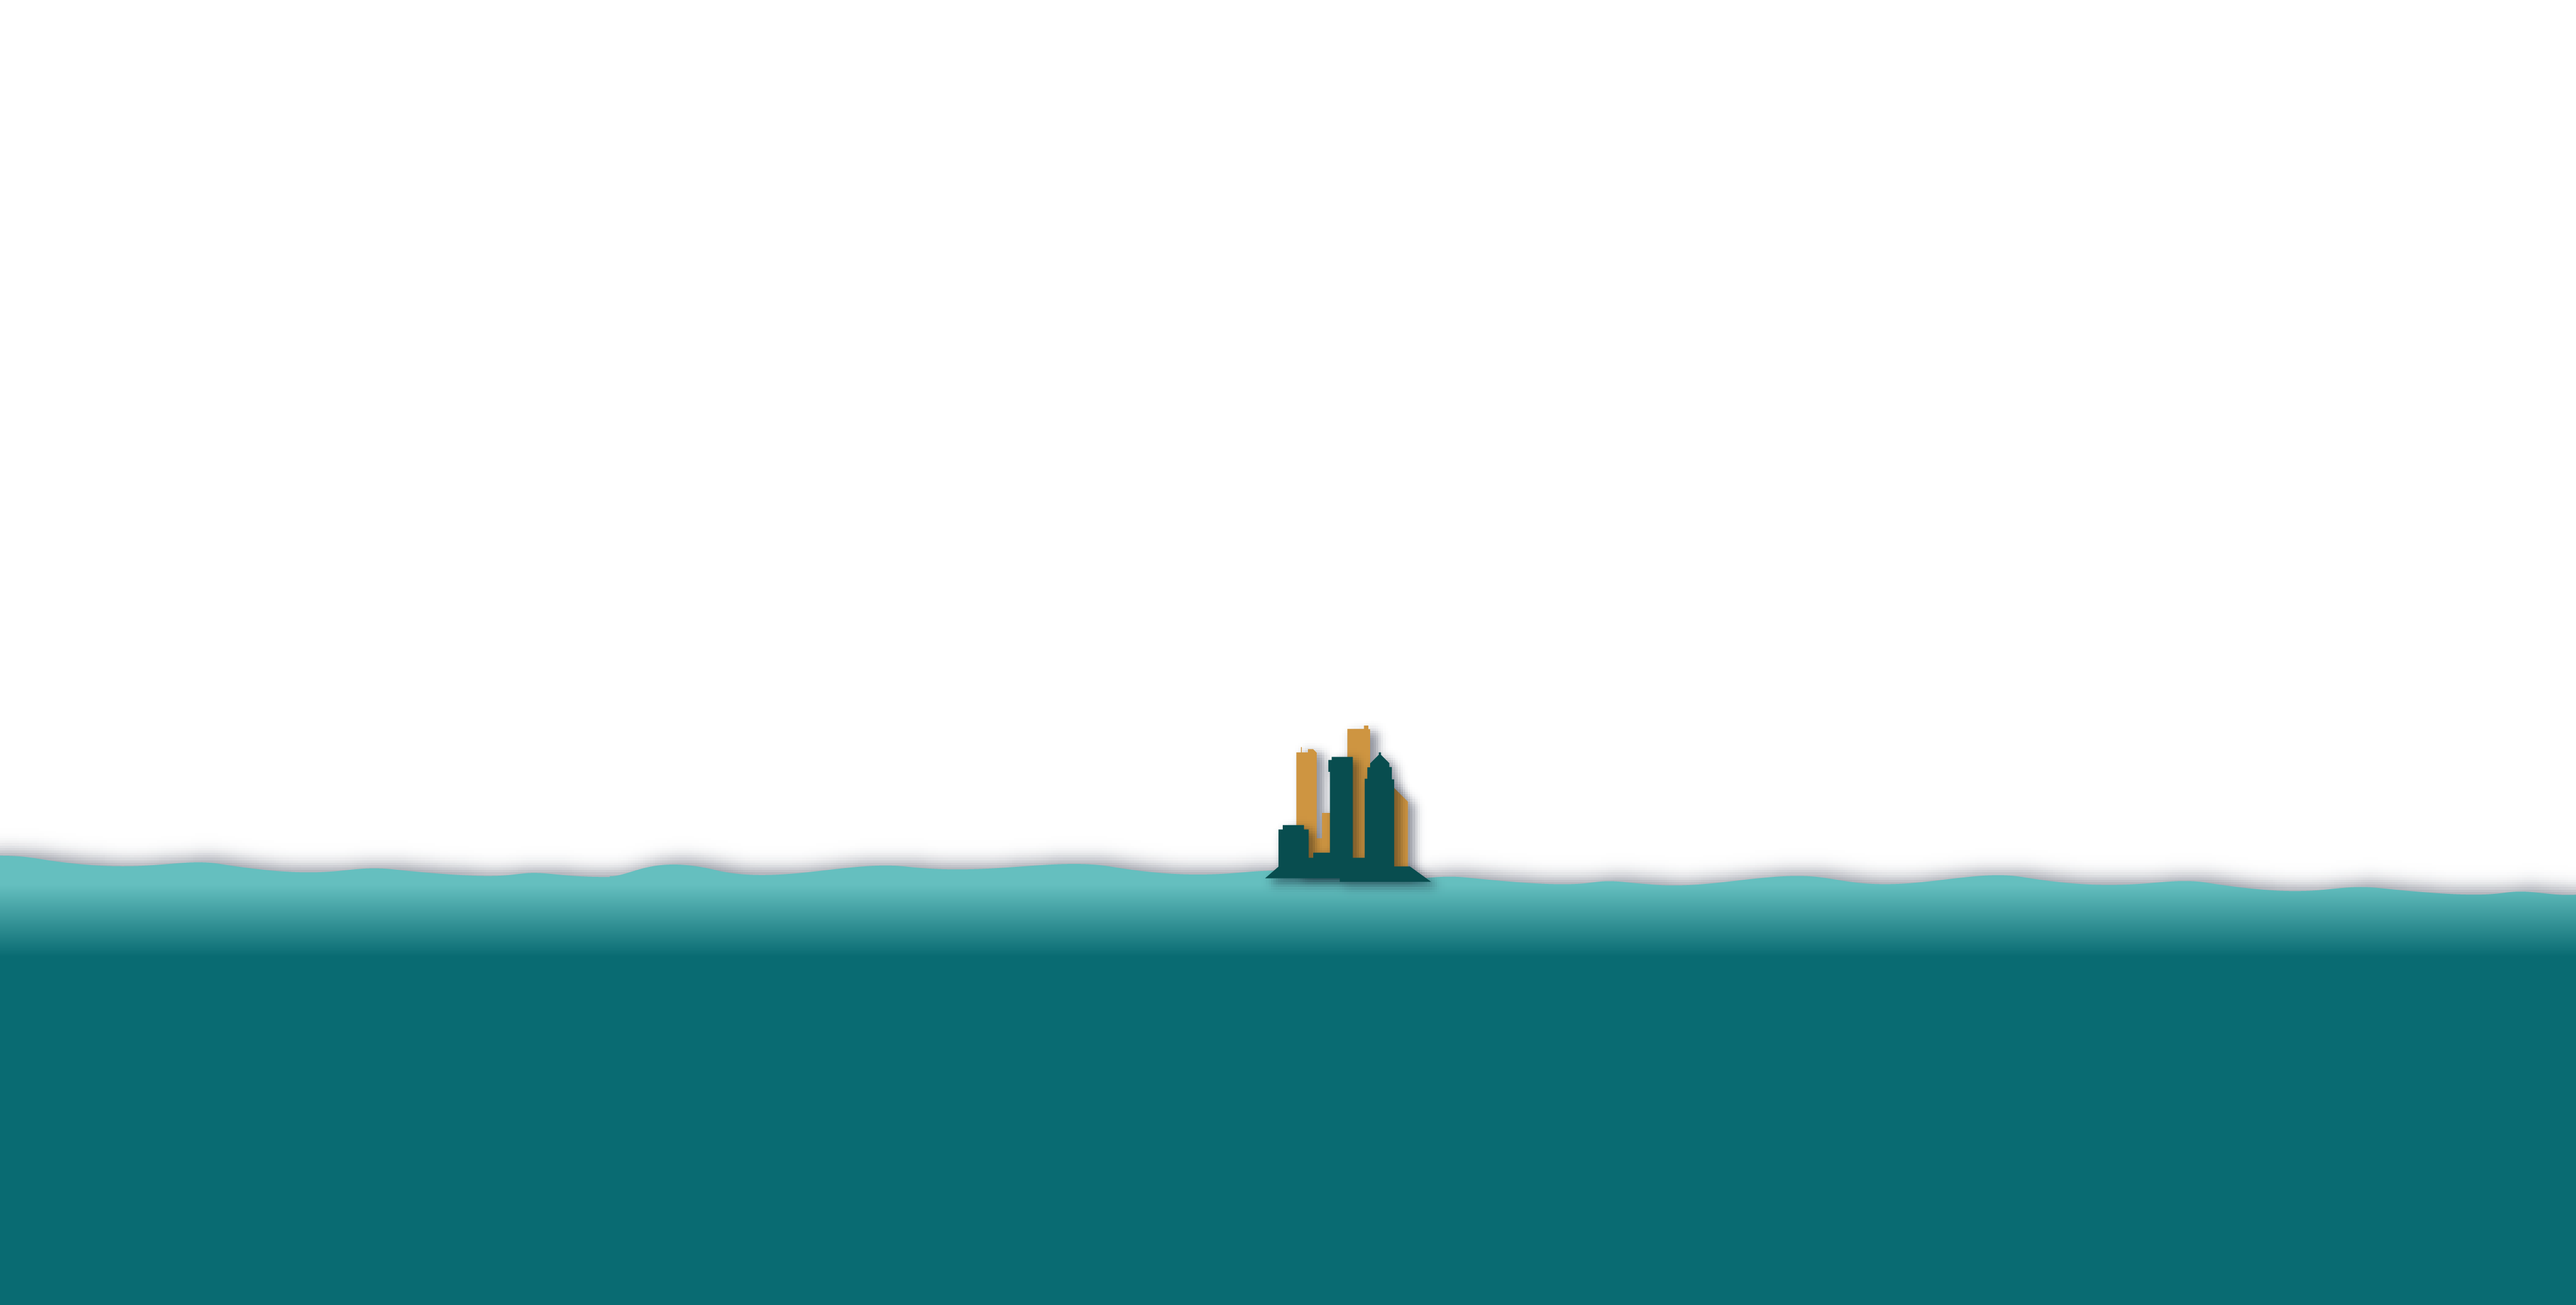
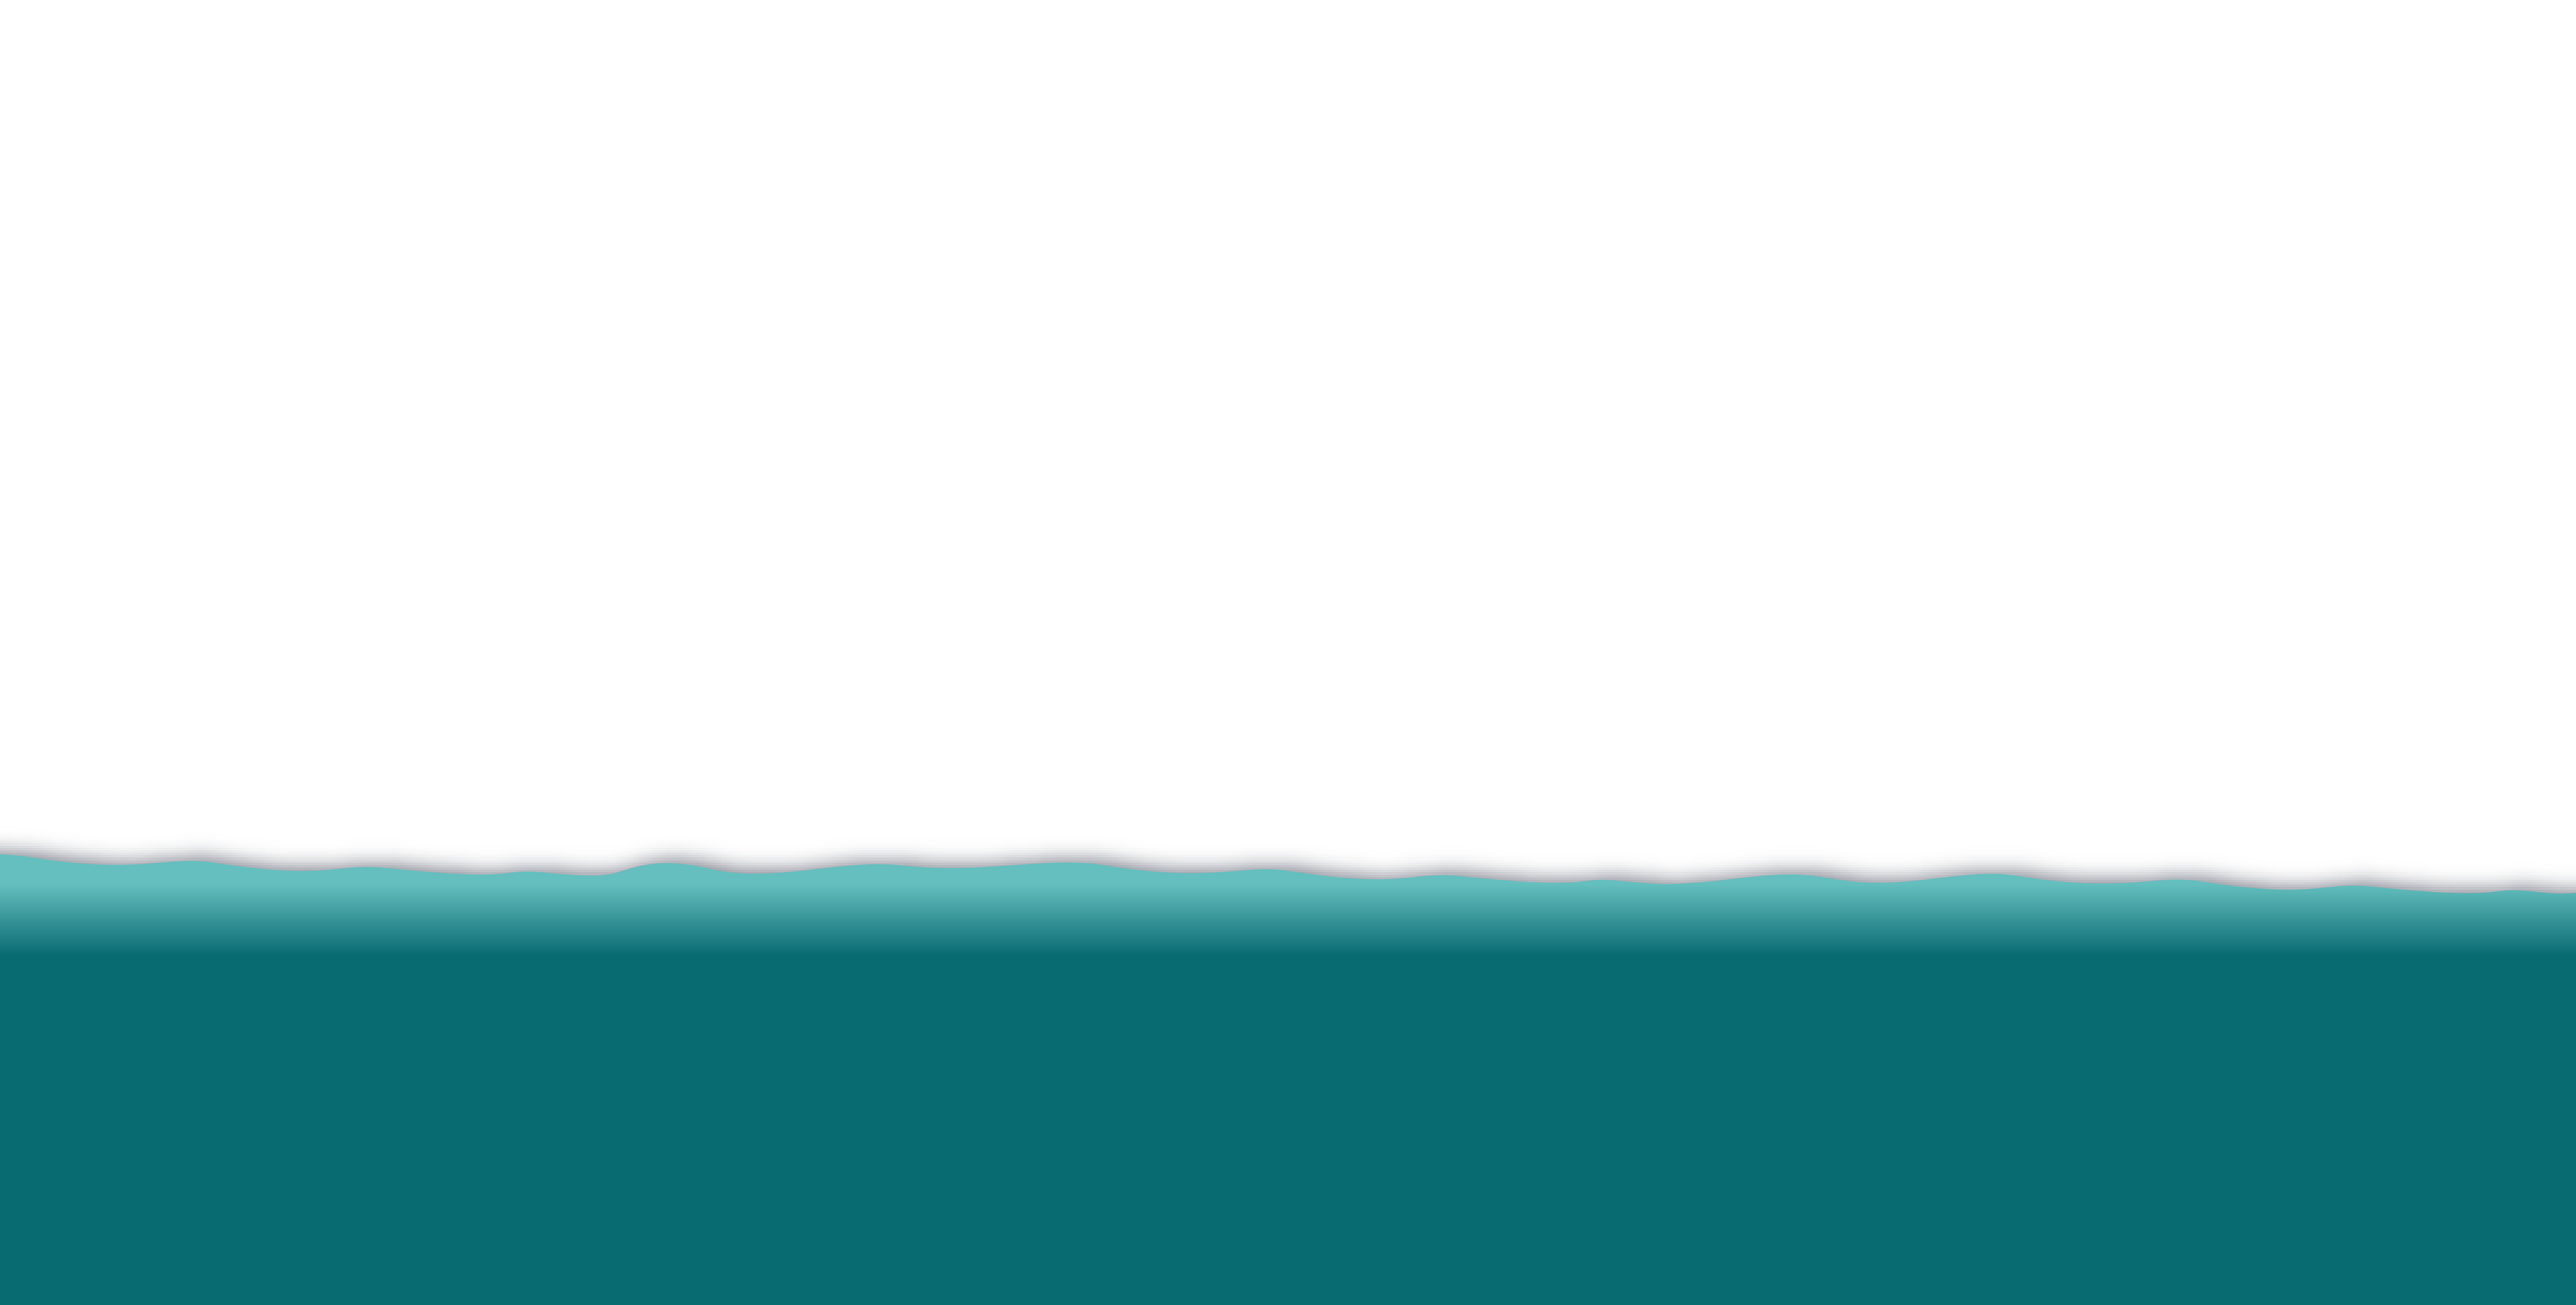
added little animations to the cover art display

Changed region(s): [[0.4679, 0.5582, 0.5615, 0.6822]]

diff --git a/main.css b/main.css
@@ -294,14 +294,12 @@ input::placeholder {
     grid-template-rows: 1fr;
     grid-template-columns: 1fr;
     direction: rtl;
-    /* width: 100vw;
-    overflow: hidden;
-    justify-items: end;
-    max-width: 100vw; */
+    z-index: -2;
 }
 
 #CIW-book {
     background: linear-gradient(180deg,var(--teal) 0%, var(--lightteal) 100%);
+    z-index: -2;
 }
 
 #KIW-book {
@@ -353,6 +351,7 @@ input::placeholder {
     box-shadow: 4px 4px 6px var(--darkteal);
     grid-area: 1 / 1 / span 1 /span 1;
     justify-self: end;
+    z-index: 5;
     }
 
 @media screen and (max-width: 700px) {
@@ -622,3 +621,150 @@ h2 {
     color: var(--darkest);
     margin-left: 2rem;
 }
+
+/* Animations */
+    /* CIW */
+    @keyframes ciwBack {
+        0% {transform: scaleX(120%);}
+        50% {transform: scaleX(105%);}
+        100% {transform: scaleX(120%);}
+    }
+
+    #CIW-back {
+        animation-name: ciwBack;
+        animation-duration: 4s;
+        animation-iteration-count: infinite;
+        animation-timing-function: ease-in-out;
+        z-index: 0;
+    }
+
+    @keyframes ciwFront {
+        0% {transform: scaleX(100%);}
+        50% {transform: scaleX(110%);}
+        100% {transform: scaleX(100%);}
+    }
+
+    #CIW-front {
+        animation-name: ciwFront;
+        animation-duration: 4s;
+        animation-iteration-count: infinite;
+        animation-timing-function: ease-in-out;
+        z-index: 4;
+    }
+
+    #CIW-one {
+        z-index: 1;
+    }
+
+
+    #CIW-two {
+        z-index: 2;
+    }
+
+    #CIW-three {
+        z-index: 3;
+    }
+
+    /* KIW */
+    @keyframes kiwBack {
+        0% {transform: scaleX(120%);}
+        50% {transform: scaleX(105%);}
+        100% {transform: scaleX(120%);}
+    }
+
+    #KIW-back {
+        animation-name: kiwBack;
+        animation-duration: 4s;
+        animation-iteration-count: infinite;
+        animation-timing-function: ease-in-out;
+        z-index: 0;
+    }
+    
+    @keyframes kiwOne {
+        0% {transform: scaleX(100%);}
+        50% {transform: scaleX(110%);}
+        100% {transform: scaleX(100%);}
+    }
+
+    #KIW-one {
+        animation-name: kiwOne;
+        animation-duration: 4s;
+        animation-iteration-count: infinite;
+        animation-timing-function: ease-in-out;
+        z-index: 1;
+    }
+
+    #KIW-two {
+        z-index: 2;
+    }
+
+    #KIW-three {
+        z-index: 3;
+    }
+
+    #KIW-front {
+        z-index: 4;
+    }
+
+    /* MIF */
+        @keyframes mifBack {
+        0% {transform: translateX(0px);}
+        50% {transform: translateX(-50px);}
+        100% {transform: translateX(0px);}
+    }
+
+    #MIF-back {
+        animation-name: mifBack;
+        animation-duration: 12s;
+        animation-iteration-count: infinite;
+        animation-timing-function: ease-in-out;
+        z-index: 0;
+    }
+
+    @keyframes mifOne {
+        0% {transform: translateX(0px);}
+        50% {transform: translateX(50px);}
+        100% {transform: translateX(0px);}
+    }
+
+    #MIF-one {
+        animation-name: mifOne;
+        animation-duration: 12s;
+        animation-delay: 4s;
+        animation-iteration-count: infinite;
+        animation-timing-function: ease-in-out;
+        z-index: 1;
+    }
+
+
+    @keyframes mifFront {
+        0% {transform: translateX(0px);}
+        50% {transform: translateX(50px);}
+        100% {transform: translateX(0px);}
+    }
+
+    #MIF-front {
+        animation-name: mifFront;
+        animation-duration: 12s;
+        animation-iteration-count: infinite;
+        animation-timing-function: ease-in-out;
+        z-index: 4;
+    }
+    @keyframes mifThree {
+        0% {transform: translateX(0px);}
+        50% {transform: translateX(-50px);}
+        100% {transform: translateX(0px);}
+    }
+
+    #MIF-three {
+        animation-name: mifThree;
+        animation-duration: 12s;
+        animation-delay: 8s;
+        animation-iteration-count: infinite;
+        animation-timing-function: ease-in-out;
+        z-index: 3;
+    }
+
+    #MIF-two {
+        z-index: 2;
+    }

diff --git a/index.html b/index.html
@@ -34,9 +34,9 @@
         <div class="book-display" id="CIW-book">
             <div class="cover-art">
                 <img class="cover" id="CIW-back" src="images/CIW/layer1-water.png" alt="a large lake">
-                <img class="cover" id="CIW-one" src="images/CIW/layer2-island-base.png" alt="a pale castle on an island">
-                <img class="cover" id="CIW-two" src="images/CIW/layer3-middle-castle.png" alt="a pale castle on an island">
-                <img class="cover" id="CIW-three" src="images/CIW/layer4-front-castle.png" alt="a pale castle on an island">
+                <img class="cover" id="CIW-one" src="images/CIW/layer2-island-base.png" alt="a pale castle with teal roofing on an island">
+                <img class="cover" id="CIW-two" src="images/CIW/layer3-middle-castle.png" alt="a pale castle with teal roofing on an island">
+                <img class="cover" id="CIW-three" src="images/CIW/layer4-front-castle.png" alt="a pale castle with teal roofing on an island">
                 <img class="cover" id="CIW-front" src="images/CIW/layer5-surface-water.png" alt="a large lake">
             </div>
             <section class="bookshelf">
